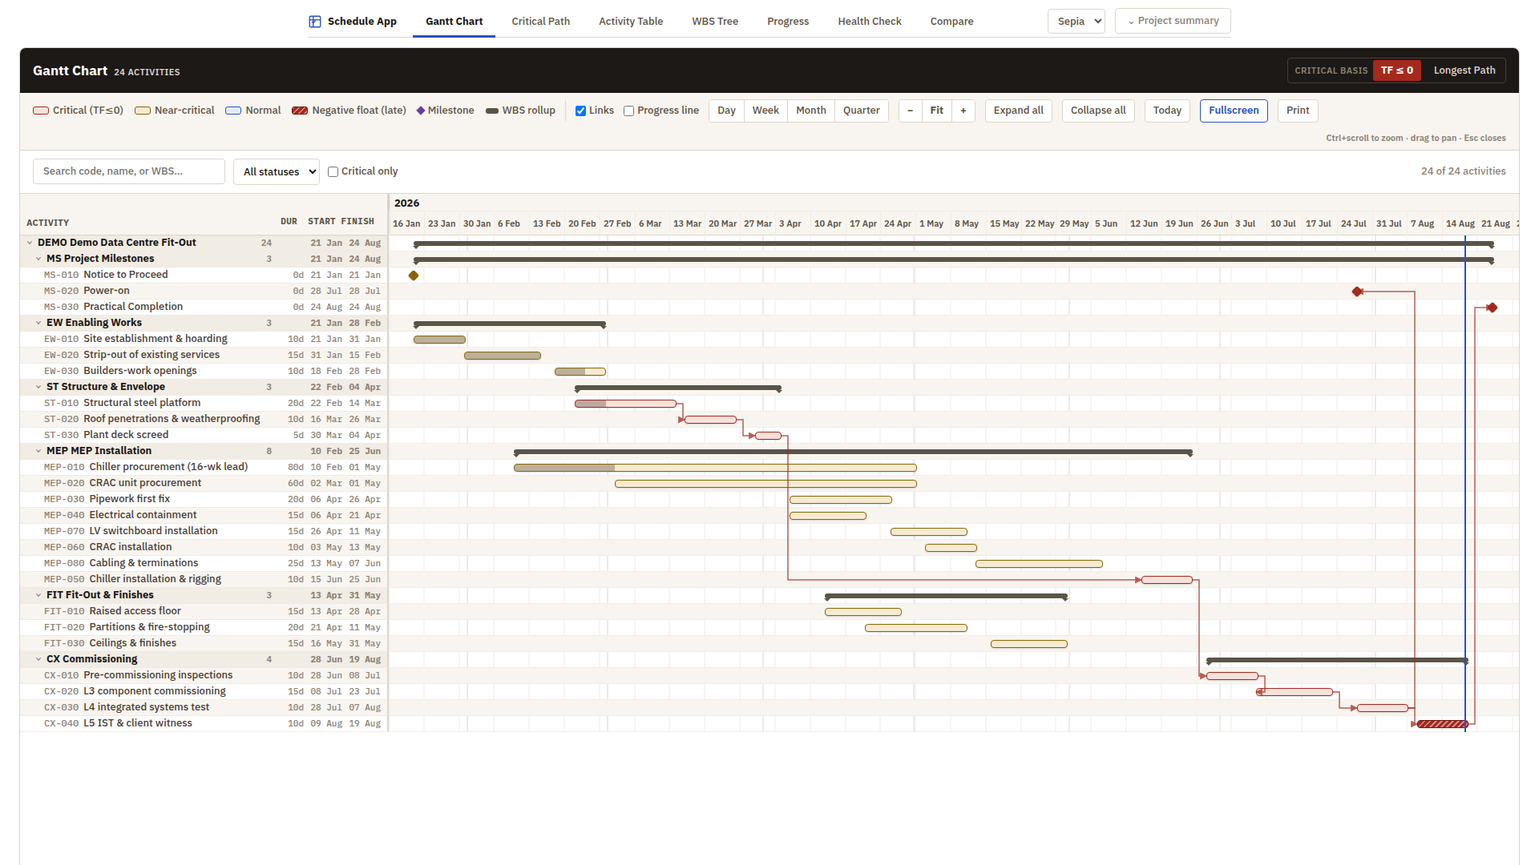
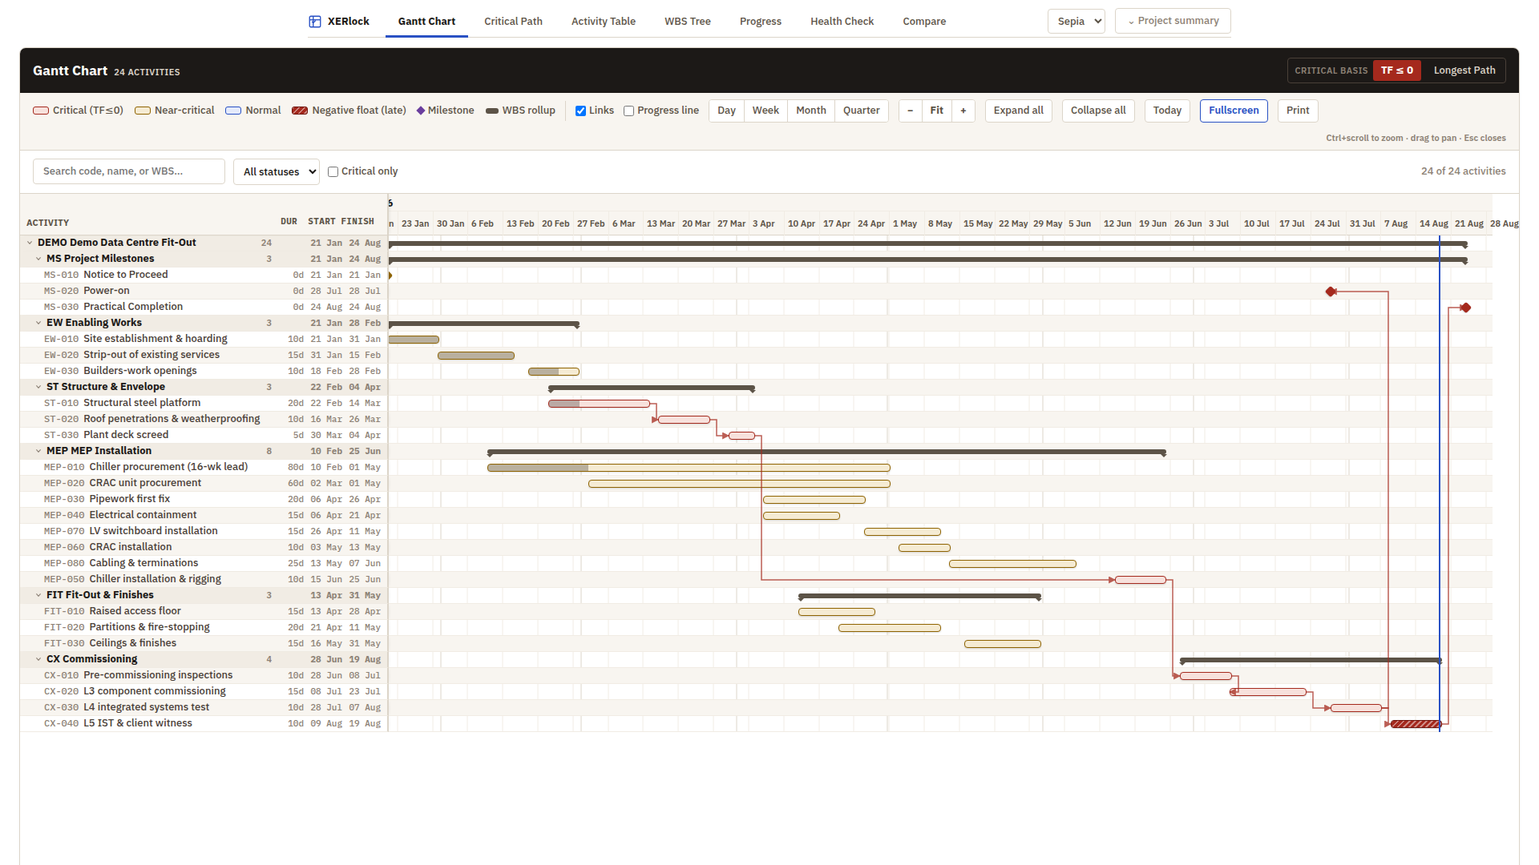
feat: rename to XERlock; arrow-key navigation; drawer CSS dedup
The app is now XERlock — the lock is the promise: read-only by design,
files parsed in memory, never stored, never modified. Renamed across
the UI (h1, tab-bar brand, hint copy), page title/og tags, backend API
title, Excel workbook creator, package.json, and README (which now
opens with the name rationale). Repo/infra identifiers unchanged.

Deferred review items now implemented:
- ↑/↓ walk the visible Gantt rows (skipping WBS headers) with the
  drawer following — combined with Esc, /, and Ctrl+Enter (which now
  saves the annotation note), the whole review loop is keyboard-drivable.
- The two detail drawers' ~80 duplicated CSS lines consolidated into a
  single shared .detail-drawer system in App.vue, ending the style
  drift between them; both components keep only their specific bits.

Screenshots + og image recaptured with the new brand.

Claude-Session: https://claude.ai/code/session_0114n3XnQ6q2G7FCFR9mKC8B

diff --git a/frontend/src/App.vue b/frontend/src/App.vue
@@ -11,7 +11,7 @@
             <path d="M7 12l2 2 4-4" />
           </svg>
         </div>
-        <h1>Schedule App</h1>
+        <h1>XERlock</h1>
         <p class="subtitle">Review Primavera P6 schedules — no P6 license required.</p>
         <p class="feature-strip">Interactive Gantt &middot; critical-path network &middot; DCMA-14 health checks &middot; snapshot compare &middot; Excel review reports</p>
 
@@ -47,7 +47,7 @@
           No file handy? <strong>Load the sample project &rarr;</strong>
         </button>
         <p v-if="!loading" class="sample-sub">A 24-activity data-centre fit-out with a real critical path, negative float, and in-progress work.</p>
-        <p class="hint">Files are parsed on the server in memory and never stored. Your last file is kept in this browser only, so you can reopen it without re-uploading.</p>
+        <p class="hint">XERlock is read-only by design — the lock in the name: files are parsed in memory, never stored, never modified. Your last file is kept in this browser only, so you can reopen it without re-uploading.</p>
         <a class="gh-link" href="https://github.com/joaompfp/schedule-app" target="_blank" rel="noopener">
           <svg width="15" height="15" viewBox="0 0 16 16" fill="currentColor"><path d="M8 0C3.58 0 0 3.58 0 8c0 3.54 2.29 6.53 5.47 7.59.4.07.55-.17.55-.38 0-.19-.01-.82-.01-1.49-2.01.37-2.53-.49-2.69-.94-.09-.23-.48-.94-.82-1.13-.28-.15-.68-.52-.01-.53.63-.01 1.08.58 1.23.82.72 1.21 1.87.87 2.33.66.07-.52.28-.87.51-1.07-1.78-.2-3.64-.89-3.64-3.95 0-.87.31-1.59.82-2.15-.08-.2-.36-1.02.08-2.12 0 0 .67-.21 2.2.82.64-.18 1.32-.27 2-.27s1.36.09 2 .27c1.53-1.04 2.2-.82 2.2-.82.44 1.1.16 1.92.08 2.12.51.56.82 1.27.82 2.15 0 3.07-1.87 3.75-3.65 3.95.29.25.54.73.54 1.48 0 1.07-.01 1.93-.01 2.2 0 .21.15.46.55.38A8.01 8.01 0 0 0 16 8c0-4.42-3.58-8-8-8z"/></svg>
           Open source on GitHub
@@ -115,14 +115,14 @@
 
       <!-- Tab navigation -->
       <nav class="tabs">
-        <a class="brand" href="https://github.com/joaompfp/schedule-app" target="_blank" rel="noopener" title="Schedule App on GitHub">
+        <a class="brand" href="https://github.com/joaompfp/schedule-app" target="_blank" rel="noopener" title="XERlock on GitHub">
           <svg width="18" height="18" viewBox="0 0 24 24" fill="none" class="brand-icon" stroke-width="1.8">
             <rect x="3" y="3" width="18" height="18" rx="2" />
             <path d="M3 9h18" />
             <path d="M9 3v18" />
             <path d="M7 12l2 2 4-4" />
           </svg>
-          <span class="brand-name">Schedule App</span>
+          <span class="brand-name">XERlock</span>
         </a>
         <button :class="{ active: tab === 'gantt' }" @click="selectTab('gantt')">Gantt Chart</button>
         <button :class="{ active: tab === 'story' }" @click="selectTab('story')">Critical Path</button>
@@ -961,4 +961,56 @@ th.num { text-align: right !important; }
 
 /* WBS tree */
 .wbs-tree { border: 1px solid var(--gray-300); border-radius: var(--radius-md); overflow: hidden; }
+
+/* ── Shared detail drawer (Gantt + Critical Path) ─────────────────────────── */
+.detail-drawer { position: fixed; top: 0; right: 0; bottom: 0; height: 100vh; width: 420px; max-width: 92vw; background: var(--white); border-left: 1px solid var(--gray-300); box-shadow: -8px 0 24px rgba(28,25,23,0.14); z-index: 15; overflow-y: auto; box-sizing: border-box; padding: var(--space-4); display: flex; flex-direction: column; gap: var(--space-5); }
+.detail-slide-enter-active, .detail-slide-leave-active { transition: transform 0.2s ease, opacity 0.2s ease; }
+.detail-slide-enter-from, .detail-slide-leave-to { transform: translateX(24px); opacity: 0; }
+
+.detail-header { position: relative; padding-right: 26px; }
+.detail-close { position: absolute; top: -6px; right: -6px; width: 26px; height: 26px; border: none; background: var(--gray-100); color: var(--gray-700); border-radius: 50%; font-size: 19px; line-height: 1; cursor: pointer; display: flex; align-items: center; justify-content: center; }
+.detail-close:hover { background: var(--gray-150); color: var(--ink); }
+.detail-code { display: block; font-family: var(--font-mono); font-weight: 700; font-size: 14px; color: var(--accent); margin-bottom: 3px; }
+.detail-name { font-size: 17px; font-weight: 700; color: var(--ink); line-height: 1.35; margin: 0; }
+.detail-wbs-path { font-size: 12px; color: var(--gray-700); font-family: var(--font-mono); margin-top: 6px; line-height: 1.5; }
+
+.detail-stat-grid { display: grid; grid-template-columns: 1fr 1fr; gap: 8px; }
+.stat-tile { background: var(--gray-100); border: 1px solid var(--gray-150); border-radius: var(--radius-md); padding: 8px 10px; }
+.stat-value { font-family: var(--font-mono); font-size: 20px; font-weight: 700; color: var(--ink); line-height: 1.2; }
+.stat-value-date { font-size: 16px; }
+.stat-label { font-size: 11px; font-weight: 700; text-transform: uppercase; letter-spacing: 0.04em; color: var(--gray-700); margin-top: 3px; }
+.stat-status { font-size: 15px; }
+.stat-status.status-TK_Complete { color: var(--ok); }
+.stat-status.status-TK_Active { color: var(--active); }
+.stat-status.status-TK_NotStart { color: var(--gray-700); }
+.stat-progress { height: 4px; background: var(--gray-300); border-radius: 2px; margin-top: 6px; overflow: hidden; }
+.stat-progress-fill { height: 100%; background: var(--accent); }
+.stat-tile-crit { background: var(--crit-tint); border-color: var(--crit); }
+.stat-tile-crit .stat-value { color: var(--crit); }
+.stat-tile-near { background: var(--near-tint); border-color: var(--near); }
+.stat-tile-near .stat-value { color: var(--near); }
+.stat-tile-neg { background: var(--crit); border-color: var(--crit); }
+.stat-tile-neg .stat-value, .stat-tile-neg .stat-label { color: var(--white); }
+
+.detail-constraint { background: var(--near-tint); border: 1px solid var(--near); border-radius: var(--radius-sm); padding: 7px 10px; font-size: 13px; color: var(--ink-soft); display: flex; gap: 6px; flex-wrap: wrap; align-items: baseline; }
+.detail-constraint .constraint-label { font-size: 11px; font-weight: 700; text-transform: uppercase; letter-spacing: 0.04em; color: var(--near); }
+.detail-constraint strong { color: var(--ink); }
+
+.detail-rels { display: flex; flex-direction: column; gap: var(--space-5); }
+.rel-section h4 { font-size: 13px; text-transform: uppercase; letter-spacing: 0.04em; color: var(--gray-700); font-weight: 700; margin: 0 0 8px; }
+.rel-section h4 em { font-style: normal; color: var(--accent); font-family: var(--font-mono); }
+.rel-empty { font-size: 14px; color: var(--gray-500); font-style: italic; }
+.rel-item-btn { display: flex; flex-direction: column; gap: 3px; font-size: 14px; padding: 8px 10px; border: none; background: var(--gray-100); cursor: pointer; border-radius: var(--radius-sm); width: 100%; text-align: left; margin-bottom: 5px; }
+.rel-item-btn:hover { background: var(--accent-soft); }
+.rel-item-row { display: flex; gap: 8px; align-items: baseline; flex-wrap: wrap; }
+.rel-item-name { color: var(--ink-soft); overflow: hidden; text-overflow: ellipsis; white-space: nowrap; flex: 1; min-width: 0; }
+.rel-item-sub { color: var(--gray-700); }
+.rel-code { font-family: var(--font-mono); font-weight: 700; color: var(--accent); font-size: 14px; flex-shrink: 0; }
+.rel-type { color: var(--gray-700); font-size: 11px; font-weight: 700; text-transform: uppercase; flex-shrink: 0; }
+.rel-dates { font-family: var(--font-mono); font-size: 12px; color: var(--gray-700); }
+.rel-dur { font-family: var(--font-mono); font-size: 12px; color: var(--gray-700); margin-left: auto; }
+.rel-lag { font-size: 11px; color: var(--gray-500); font-style: italic; }
+.rel-driving { flex-shrink: 0; font-size: 11px; font-weight: 700; text-transform: uppercase; letter-spacing: 0.03em; color: var(--white); background: var(--crit); padding: 1px 7px; border-radius: 9px; }
+@media print { .detail-drawer { display: none; } }
+
 </style>

diff --git a/frontend/src/components/GanttChart.vue b/frontend/src/components/GanttChart.vue
@@ -257,7 +257,7 @@
     </div>
 
     <Transition name="detail-slide">
-      <aside class="gantt-detail-panel" v-if="selectedActivity">
+      <aside class="detail-drawer" v-if="selectedActivity">
         <div class="detail-header">
           <button class="detail-close" @click="selectedTaskId = null" title="Close" aria-label="Close">&times;</button>
           <span class="detail-code">{{ selectedActivity.task_code }}</span>
@@ -886,7 +886,21 @@ export default {
       } else if (e.key === '/' && !typing) {
         e.preventDefault()
         this.$el.querySelector('.filter-input')?.focus()
+      } else if ((e.key === 'ArrowDown' || e.key === 'ArrowUp') && !typing) {
+        e.preventDefault()
+        this.moveSelection(e.key === 'ArrowDown' ? 1 : -1)
       }
+    },
+    // ↑/↓ walk the visible activity rows (skipping WBS headers); the drawer follows.
+    moveSelection(dir) {
+      const actRows = this.rows.filter(r => r.type === 'activity')
+      if (!actRows.length) return
+      let idx = actRows.findIndex(r => r.activity.task_id === this.selectedTaskId)
+      idx = idx === -1 ? (dir > 0 ? 0 : actRows.length - 1) : Math.min(actRows.length - 1, Math.max(0, idx + dir))
+      const next = actRows[idx].activity
+      if (next.task_id === this.selectedTaskId) return
+      this.selectedTaskId = next.task_id
+      this.$nextTick(() => this.scrollToActivity(next.task_id))
     },
     clearFilters() {
       this.filterText = ''
@@ -1241,18 +1255,7 @@ export default {
 .g-milestone.near { background: var(--near); }
 .g-milestone.negative { background: var(--crit); box-shadow: 0 0 0 2px var(--white), 0 0 0 3.5px var(--crit); }
 
-/* Right-side drawer, anchored to .gantt-body so it spans exactly the scroll viewport's
-   height regardless of the header/controls/filter-bar above it. */
-.gantt-detail-panel { position: fixed; top: 0; right: 0; bottom: 0; height: 100vh; width: 420px; max-width: 92vw; background: var(--white); border-left: 1px solid var(--gray-300); box-shadow: -8px 0 24px rgba(28,25,23,0.14); z-index: 15; overflow-y: auto; box-sizing: border-box; padding: var(--space-4); display: flex; flex-direction: column; gap: var(--space-5); }
-.detail-slide-enter-active, .detail-slide-leave-active { transition: transform 0.2s ease, opacity 0.2s ease; }
-.detail-slide-enter-from, .detail-slide-leave-to { transform: translateX(24px); opacity: 0; }
 
-.detail-header { position: relative; padding-right: 26px; }
-.detail-close { position: absolute; top: -6px; right: -6px; width: 26px; height: 26px; border: none; background: var(--gray-100); color: var(--gray-700); border-radius: 50%; font-size: 19px; line-height: 1; cursor: pointer; display: flex; align-items: center; justify-content: center; }
-.detail-close:hover { background: var(--gray-150); color: var(--ink); }
-.detail-code { display: block; font-family: var(--font-mono); font-weight: 700; font-size: 14px; color: var(--accent); margin-bottom: 3px; }
-.detail-name { font-size: 17px; font-weight: 700; color: var(--ink); line-height: 1.35; margin: 0; }
-.detail-wbs-path { font-size: 12px; color: var(--gray-700); font-family: var(--font-mono); margin-top: 6px; line-height: 1.5; }
 .detail-actions { margin-top: 10px; }
 .btn-isolate { color: var(--accent); border-color: var(--accent); font-weight: 600; }
 .btn-isolate:hover { background: var(--accent-soft); }
@@ -1260,46 +1263,11 @@ export default {
 
 /* Duration/float lead the grid — the two numbers a reviewer needs first, sized to read
    at a glance instead of buried in an inline sentence. */
-.detail-stat-grid { display: grid; grid-template-columns: 1fr 1fr; gap: 8px; }
-.detail-constraint { background: var(--near-tint); border: 1px solid var(--near); border-radius: var(--radius-sm); padding: 7px 10px; font-size: 13px; color: var(--ink-soft); display: flex; gap: 6px; flex-wrap: wrap; align-items: baseline; }
-.detail-constraint .constraint-label { font-size: 11px; font-weight: 700; text-transform: uppercase; letter-spacing: 0.04em; color: var(--near); }
-.detail-constraint strong { color: var(--ink); }
-.stat-tile { background: var(--gray-100); border: 1px solid var(--gray-150); border-radius: var(--radius-md); padding: 8px 10px; }
-.stat-value { font-family: var(--font-mono); font-size: 20px; font-weight: 700; color: var(--ink); line-height: 1.2; }
-.stat-value-date { font-size: 16px; }
-.stat-label { font-size: 11px; font-weight: 700; text-transform: uppercase; letter-spacing: 0.04em; color: var(--gray-700); margin-top: 3px; }
-.stat-status { font-size: 15px; }
-.stat-status.status-TK_Complete { color: var(--ok); }
-.stat-status.status-TK_Active { color: var(--accent); }
-.stat-status.status-TK_NotStart { color: var(--gray-700); }
-.stat-progress { height: 4px; background: var(--gray-300); border-radius: 2px; margin-top: 6px; overflow: hidden; }
-.stat-progress-fill { height: 100%; background: var(--accent); }
-.stat-tile-crit { background: var(--crit-tint); border-color: var(--crit); }
-.stat-tile-crit .stat-value { color: var(--crit); }
-.stat-tile-near { background: var(--near-tint); border-color: var(--near); }
-.stat-tile-near .stat-value { color: var(--near); }
-.stat-tile-neg { background: var(--crit); border-color: var(--crit); }
-.stat-tile-neg .stat-value, .stat-tile-neg .stat-label { color: var(--white); }
 
-.detail-rels { display: flex; flex-direction: column; gap: var(--space-5); }
-.rel-section h4 { font-size: 13px; text-transform: uppercase; letter-spacing: 0.04em; color: var(--gray-700); font-weight: 700; margin: 0 0 8px; }
-.rel-section h4 em { font-style: normal; color: var(--accent); font-family: var(--font-mono); }
-.rel-empty { font-size: 14px; color: var(--gray-500); font-style: italic; }
-.rel-item-btn { display: flex; flex-direction: column; gap: 3px; font-size: 14px; padding: 8px 10px; border: none; background: var(--gray-100); cursor: pointer; border-radius: var(--radius-sm); width: 100%; text-align: left; margin-bottom: 5px; }
-.rel-item-btn:hover { background: var(--accent-soft); }
-.rel-item-row { display: flex; gap: 8px; align-items: baseline; flex-wrap: wrap; }
-.rel-item-name { color: var(--ink-soft); overflow: hidden; text-overflow: ellipsis; white-space: nowrap; flex: 1; min-width: 0; }
-.rel-item-sub { color: var(--gray-700); }
-.rel-code { font-family: var(--font-mono); font-weight: 700; color: var(--accent); font-size: 14px; flex-shrink: 0; }
-.rel-type { color: var(--gray-700); font-size: 11px; font-weight: 700; text-transform: uppercase; flex-shrink: 0; }
-.rel-dates { font-family: var(--font-mono); font-size: 12px; color: var(--gray-700); }
-.rel-dur { font-family: var(--font-mono); font-size: 12px; color: var(--gray-700); margin-left: auto; }
-.rel-lag { font-size: 11px; color: var(--gray-500); font-style: italic; }
-.rel-driving { flex-shrink: 0; font-size: 10px; font-weight: 700; text-transform: uppercase; letter-spacing: 0.03em; color: var(--white); background: var(--crit); padding: 1px 7px; border-radius: 9px; }
 
 @media print {
   @page { size: landscape; margin: 10mm; }
-  .gantt-strip, .gantt-controls, .filter-bar, .gantt-detail-panel { display: none; }
+  .gantt-strip, .gantt-controls, .filter-bar { display: none; }
   .gantt-wrap, .gantt-wrap.is-fullscreen { border: none; box-shadow: none; height: auto; display: block; }
   .gantt-scroll { height: auto !important; max-height: none !important; overflow: visible; cursor: default; }
   .g-corner, .g-timeline-header, .g-label { position: static; }

diff --git a/frontend/src/components/CriticalPathGraph.vue b/frontend/src/components/CriticalPathGraph.vue
@@ -104,7 +104,7 @@
     </div>
 
     <Transition name="detail-slide">
-      <aside class="detail-panel" v-if="selected">
+      <aside class="detail-drawer" v-if="selected">
         <div class="detail-header">
           <button class="detail-close" @click="selectedId = null" title="Close" aria-label="Close">&times;</button>
           <span class="detail-code">{{ selected.task_code }}</span>
@@ -714,54 +714,9 @@ export default {
 /* Wraps the canvas so the detail drawer anchors to exactly its bounds. */
 .graph-body { position: relative; }
 
-/* Right-side drawer — same treatment as the Gantt's activity drawer. */
-.detail-panel { position: fixed; top: 0; right: 0; bottom: 0; height: 100vh; width: 420px; max-width: 92vw; background: var(--white); border-left: 1px solid var(--gray-300); box-shadow: -8px 0 24px rgba(28,25,23,0.14); z-index: 15; overflow-y: auto; box-sizing: border-box; padding: var(--space-4); display: flex; flex-direction: column; gap: var(--space-5); }
-.detail-slide-enter-active, .detail-slide-leave-active { transition: transform 0.2s ease, opacity 0.2s ease; }
-.detail-slide-enter-from, .detail-slide-leave-to { transform: translateX(24px); opacity: 0; }
 
-.detail-header { position: relative; padding-right: 26px; }
-.detail-close { position: absolute; top: -6px; right: -6px; width: 26px; height: 26px; border: none; background: var(--gray-100); color: var(--gray-700); border-radius: 50%; font-size: 19px; line-height: 1; cursor: pointer; display: flex; align-items: center; justify-content: center; }
-.detail-close:hover { background: var(--gray-150); color: var(--ink); }
-.detail-code { display: block; font-family: var(--font-mono); font-weight: 700; font-size: 14px; color: var(--accent); margin-bottom: 3px; }
-.detail-name { font-size: 17px; font-weight: 700; color: var(--ink); line-height: 1.35; margin: 0; }
-.detail-wbs-path { font-size: 12px; color: var(--gray-700); font-family: var(--font-mono); margin-top: 6px; line-height: 1.5; }
 
-.detail-stat-grid { display: grid; grid-template-columns: 1fr 1fr; gap: 8px; }
-.stat-tile { background: var(--gray-100); border: 1px solid var(--gray-150); border-radius: var(--radius-md); padding: 8px 10px; }
-.stat-value { font-family: var(--font-mono); font-size: 20px; font-weight: 700; color: var(--ink); line-height: 1.2; }
-.stat-value-date { font-size: 16px; }
-.stat-label { font-size: 11px; font-weight: 700; text-transform: uppercase; letter-spacing: 0.04em; color: var(--gray-700); margin-top: 3px; }
-.stat-status { font-size: 15px; }
-.stat-status.status-TK_Complete { color: var(--ok); }
-.stat-status.status-TK_Active { color: var(--accent); }
-.stat-status.status-TK_NotStart { color: var(--gray-700); }
-.stat-progress { height: 4px; background: var(--gray-300); border-radius: 2px; margin-top: 6px; overflow: hidden; }
-.stat-progress-fill { height: 100%; background: var(--accent); }
-.stat-tile-crit { background: var(--crit-tint); border-color: var(--crit); }
-.stat-tile-crit .stat-value { color: var(--crit); }
-.stat-tile-near { background: var(--near-tint); border-color: var(--near); }
-.stat-tile-near .stat-value { color: var(--near); }
-.stat-tile-neg { background: var(--crit); border-color: var(--crit); }
-.stat-tile-neg .stat-value, .stat-tile-neg .stat-label { color: var(--white); }
 
-.detail-constraint { background: var(--near-tint); border: 1px solid var(--near); border-radius: var(--radius-sm); padding: 7px 10px; font-size: 13px; color: var(--ink-soft); display: flex; gap: 6px; flex-wrap: wrap; align-items: baseline; }
-.detail-constraint .constraint-label { font-size: 11px; font-weight: 700; text-transform: uppercase; letter-spacing: 0.04em; color: var(--near); }
-.detail-constraint strong { color: var(--ink); }
 
-.detail-rels { display: flex; flex-direction: column; gap: var(--space-5); }
-.rel-section h4 { font-size: 13px; text-transform: uppercase; letter-spacing: 0.04em; color: var(--gray-700); font-weight: 700; margin: 0 0 8px; }
-.rel-section h4 em { font-style: normal; color: var(--accent); font-family: var(--font-mono); }
-.rel-empty { font-size: 14px; color: var(--gray-500); font-style: italic; }
-.rel-item-btn { display: flex; flex-direction: column; gap: 3px; font-size: 14px; padding: 8px 10px; border: none; background: var(--gray-100); cursor: pointer; border-radius: var(--radius-sm); width: 100%; text-align: left; margin-bottom: 5px; }
-.rel-item-btn:hover { background: var(--accent-soft); }
-.rel-item-row { display: flex; gap: 8px; align-items: baseline; flex-wrap: wrap; }
-.rel-item-name { color: var(--ink-soft); overflow: hidden; text-overflow: ellipsis; white-space: nowrap; flex: 1; min-width: 0; }
-.rel-item-sub { color: var(--gray-700); }
-.rel-code { font-family: var(--font-mono); font-weight: 700; color: var(--accent); font-size: 14px; flex-shrink: 0; }
-.rel-type { color: var(--gray-700); font-size: 11px; font-weight: 700; text-transform: uppercase; flex-shrink: 0; }
-.rel-dates { font-family: var(--font-mono); font-size: 12px; color: var(--gray-700); }
-.rel-dur { font-family: var(--font-mono); font-size: 12px; color: var(--gray-700); margin-left: auto; }
-.rel-lag { font-size: 11px; color: var(--gray-500); font-style: italic; }
 .rel-hidden { color: var(--gray-500); font: var(--text-micro); font-style: italic; }
-.rel-driving { flex-shrink: 0; font-size: 11px; font-weight: 700; text-transform: uppercase; letter-spacing: 0.03em; color: var(--white); background: var(--crit); padding: 1px 7px; border-radius: 9px; }
 </style>

diff --git a/frontend/index.html b/frontend/index.html
@@ -3,9 +3,9 @@
 <head>
   <meta charset="UTF-8" />
   <meta name="viewport" content="width=device-width, initial-scale=1.0" />
-  <title>Schedule App</title>
+  <title>XERlock</title>
   <meta name="description" content="Self-hosted Primavera P6 .xer schedule viewer — interactive Gantt, critical-path network diagram, DCMA-14-style health checks, progress tracking, and snapshot comparison." />
-  <meta property="og:title" content="Schedule App" />
+  <meta property="og:title" content="XERlock" />
   <meta property="og:description" content="Review Primavera P6 schedules — no P6 license required. Interactive Gantt, critical-path network, DCMA-14 health checks, snapshot compare." />
   <meta property="og:type" content="website" />
   <meta property="og:image" content="https://schedule.joao.date/og.png" />

diff --git a/frontend/src/components/AnnotationEditor.vue b/frontend/src/components/AnnotationEditor.vue
@@ -19,6 +19,8 @@
       class="annotation-note"
       rows="2"
       placeholder="Notes for this activity (query, risk, logic issue)…"
+      title="Ctrl+Enter saves"
+      @keydown.ctrl.enter.prevent="save"
     ></textarea>
     <div class="annotation-actions">
       <button class="btn-tiny-light" :class="{ saved: justSaved }" @click="save" :disabled="!draftSeverity && !draftNote.trim()">{{ justSaved ? 'Saved ✓' : 'Save' }}</button>

diff --git a/frontend/src/utils/export.js b/frontend/src/utils/export.js
@@ -189,7 +189,7 @@ async function newWorkbook() {
   // so it shouldn't bloat the initial page bundle.
   const { default: ExcelJS } = await import('exceljs')
   const wb = new ExcelJS.Workbook()
-  wb.creator = 'Schedule App'
+  wb.creator = 'XERlock'
   wb.created = new Date()
   return wb
 }

diff --git a/backend/main.py b/backend/main.py
@@ -1,5 +1,5 @@
 """
-Schedule App — FastAPI backend with PyP6XER
+XERlock — FastAPI backend with PyP6XER
 Parses Primavera P6 XER files and serves structured schedule data.
 """
 
@@ -25,7 +25,7 @@ logger = logging.getLogger("schedule-app")
 MAX_UPLOAD_BYTES = 50 * 1024 * 1024
 
 app = FastAPI(
-    title="Schedule App",
+    title="XERlock",
     version="1.0.0",
     description="Parses Primavera P6 .xer exports in memory and returns the full schedule "
     "(activities, WBS tree, project stats, longest-path trace) as JSON. Nothing is persisted.",

diff --git a/README.md b/README.md
@@ -1,4 +1,4 @@
-# Schedule App
+# XERlock
 
 ![License: MIT](https://img.shields.io/badge/license-MIT-blue) ![Python 3.10+](https://img.shields.io/badge/python-3.10%2B-3776AB) ![Vue 3](https://img.shields.io/badge/vue-3-42b883) ![Self-hosted](https://img.shields.io/badge/self--hosted-yes-8250df)
 
@@ -6,6 +6,9 @@
 an interactive Gantt chart, a critical-path network diagram, DCMA-14-style schedule quality checks,
 progress tracking, and snapshot comparison — everything a planner needs to review a schedule in
 detail, self-hosted so the file never leaves your own infrastructure.
+
+The name is the promise: XERlock is **locked read-only**. It never modifies, never re-saves, and
+never stores your `.xer` — files are parsed in memory and discarded.
 
 **[▶ Try it live](https://schedule.joao.date)** — one click loads a sample data-centre fit-out, or
 upload your own `.xer` (parsed in memory, never stored).

diff --git a/docs/DESIGN_SPEC.md b/docs/DESIGN_SPEC.md
@@ -1,4 +1,4 @@
-# Schedule App — Design Critique & Redesign Spec
+# XERlock (né Schedule App) — Design Critique & Redesign Spec
 
 Prepared as a pre-sprint design review. Part 1 is the critique (evidence-based, from reading
 `App.vue`, `GanttChart.vue`, `CriticalPathGraph.vue`, `WBSNode.vue` and from live screenshots of
